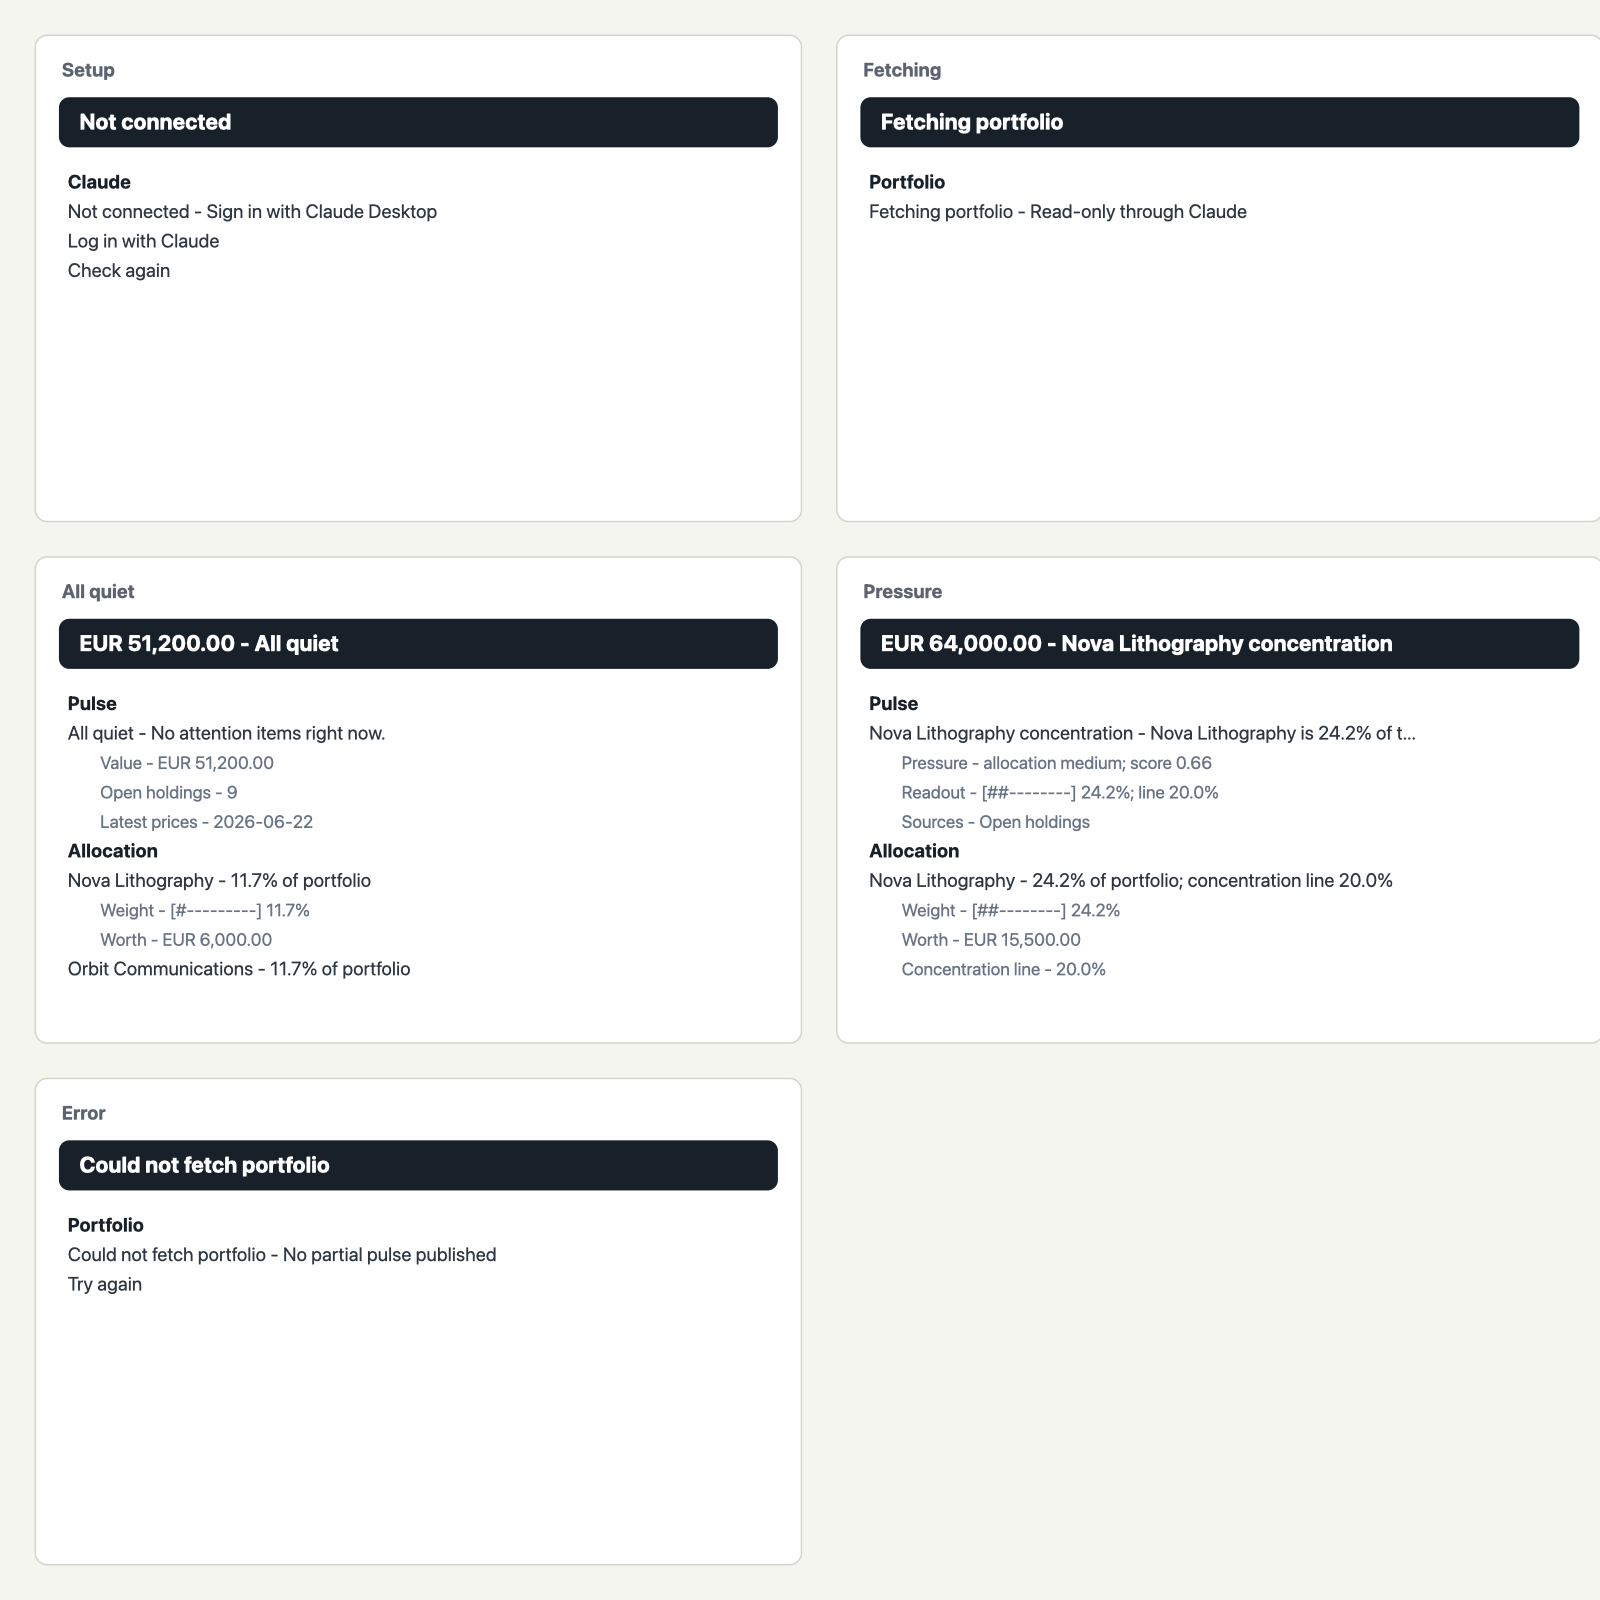
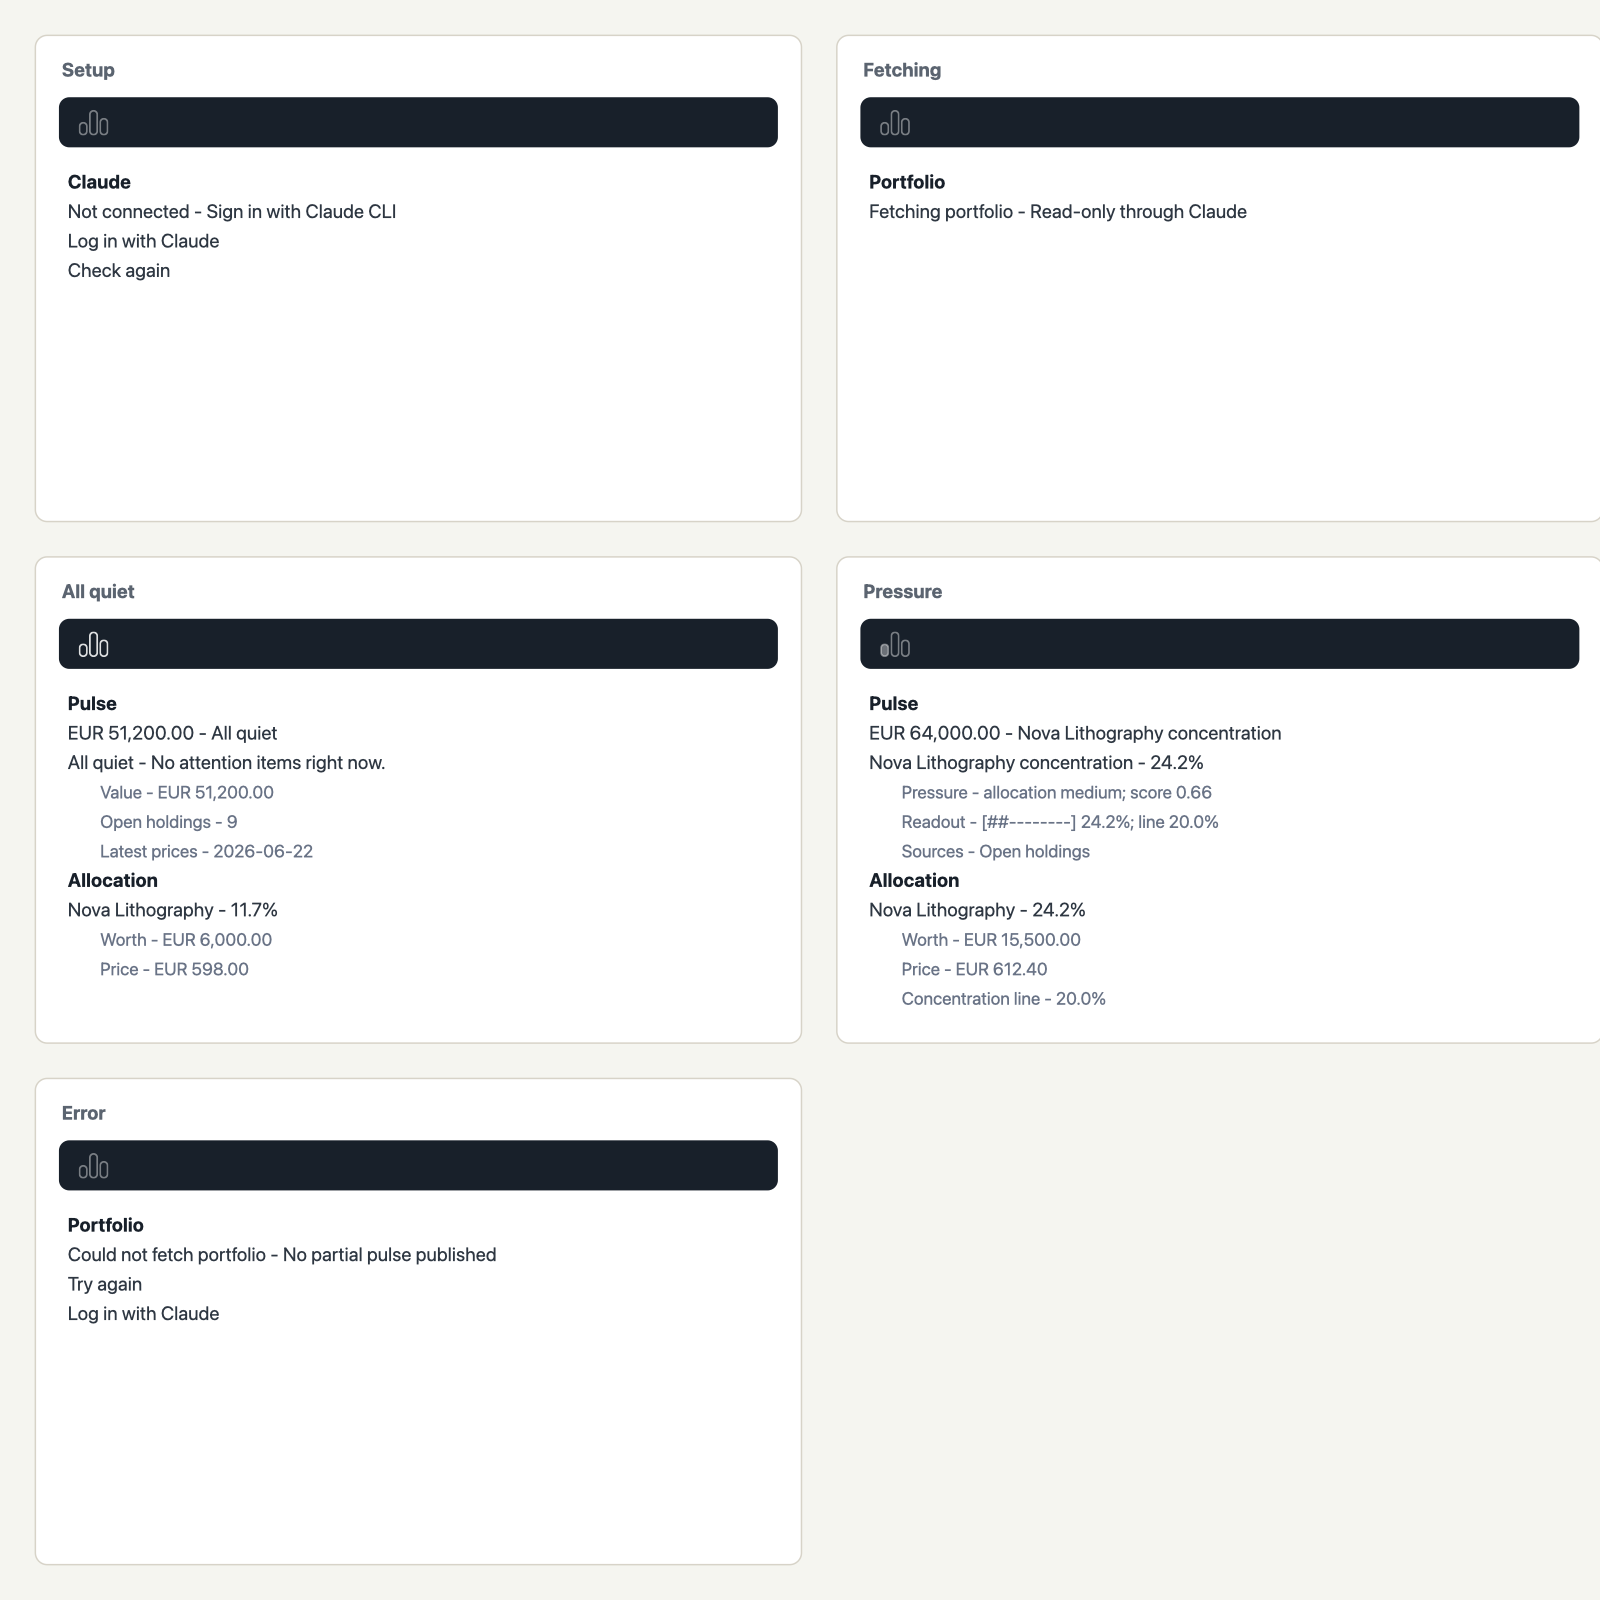
fix: remove duplicate allocation weight child row

diff --git a/Tests/PDTBarTests/HoldingDrillDownTests.swift b/Tests/PDTBarTests/HoldingDrillDownTests.swift
@@ -4,6 +4,30 @@ import PDTBarCore
 
 @Suite("Holding drill-downs")
 struct HoldingDrillDownTests {
+    @Test("Descriptor keeps parent weight but omits duplicate holding child weight")
+    func descriptorKeepsParentWeightButOmitsDuplicateHoldingChildWeight() throws {
+        var snapshot = try quietSnapshot()
+        snapshot.incomeEvents = [
+            IncomeEventSummary(
+                date: "2026-06-25",
+                kind: "ex-dividend",
+                symbolName: "Nova Lithography",
+                estimated: false,
+                quoteId: 9001
+            ),
+        ]
+
+        let holdingRow = try holdingRow(for: 9001, snapshot: snapshot)
+
+        #expect(holdingRow.title == "Nova Lithography")
+        #expect(holdingRow.detail == "11.7%")
+        #expect(holdingRow.children.first?.title == "Worth")
+        #expect(holdingRow.children.contains { $0.id == "allocation.9001.weight" } == false)
+        #expect(holdingRow.children.contains { $0.title == "Weight" } == false)
+        #expect(holdingRow.children.contains { $0.title == "Price" })
+        #expect(holdingRow.children.contains { $0.title == "Next income" })
+    }
+
     @Test("Descriptor shows next joined income event in holding drill-down")
     func descriptorShowsNextJoinedIncomeEvent() throws {
         var snapshot = try quietSnapshot()

diff --git a/Sources/PDTBarChecks/main.swift b/Sources/PDTBarChecks/main.swift
@@ -1963,6 +1963,16 @@ let holdingFactsChildren = try require(
     "holding facts descriptor row should exist"
 )
 try check(
+    holdingFactsDescriptor.sections.first { $0.id == "allocation" }?
+        .rows.first { $0.title == "Core Facts Holding" }?
+        .detail == "10.0%",
+    "allocation parent row should keep inline portfolio weight"
+)
+try check(
+    holdingFactsChildren.contains { $0.id == "allocation.9601.weight" || $0.title == "Weight" } == false,
+    "allocation drill-down should omit duplicate child weight row"
+)
+try check(
     holdingFactsChildren.map(\.title).containsSequence([
         "Worth",
         "Price",

diff --git a/Sources/PDTBarCore/PDTBarCore.swift b/Sources/PDTBarCore/PDTBarCore.swift
@@ -2394,11 +2394,6 @@ public enum MenuDescriptorRenderer {
     private static func allocationChildren(for holding: HoldingSummary, attention: AttentionItem?) -> [MenuRow] {
         var rows = [
             MenuRow(
-                id: "allocation.\(holding.quoteId).weight",
-                title: "Weight",
-                detail: "\(bar(fraction: holding.weight)) \(percent(holding.weight))"
-            ),
-            MenuRow(
                 id: "allocation.\(holding.quoteId).worth",
                 title: "Worth",
                 detail: display(holding.worth)